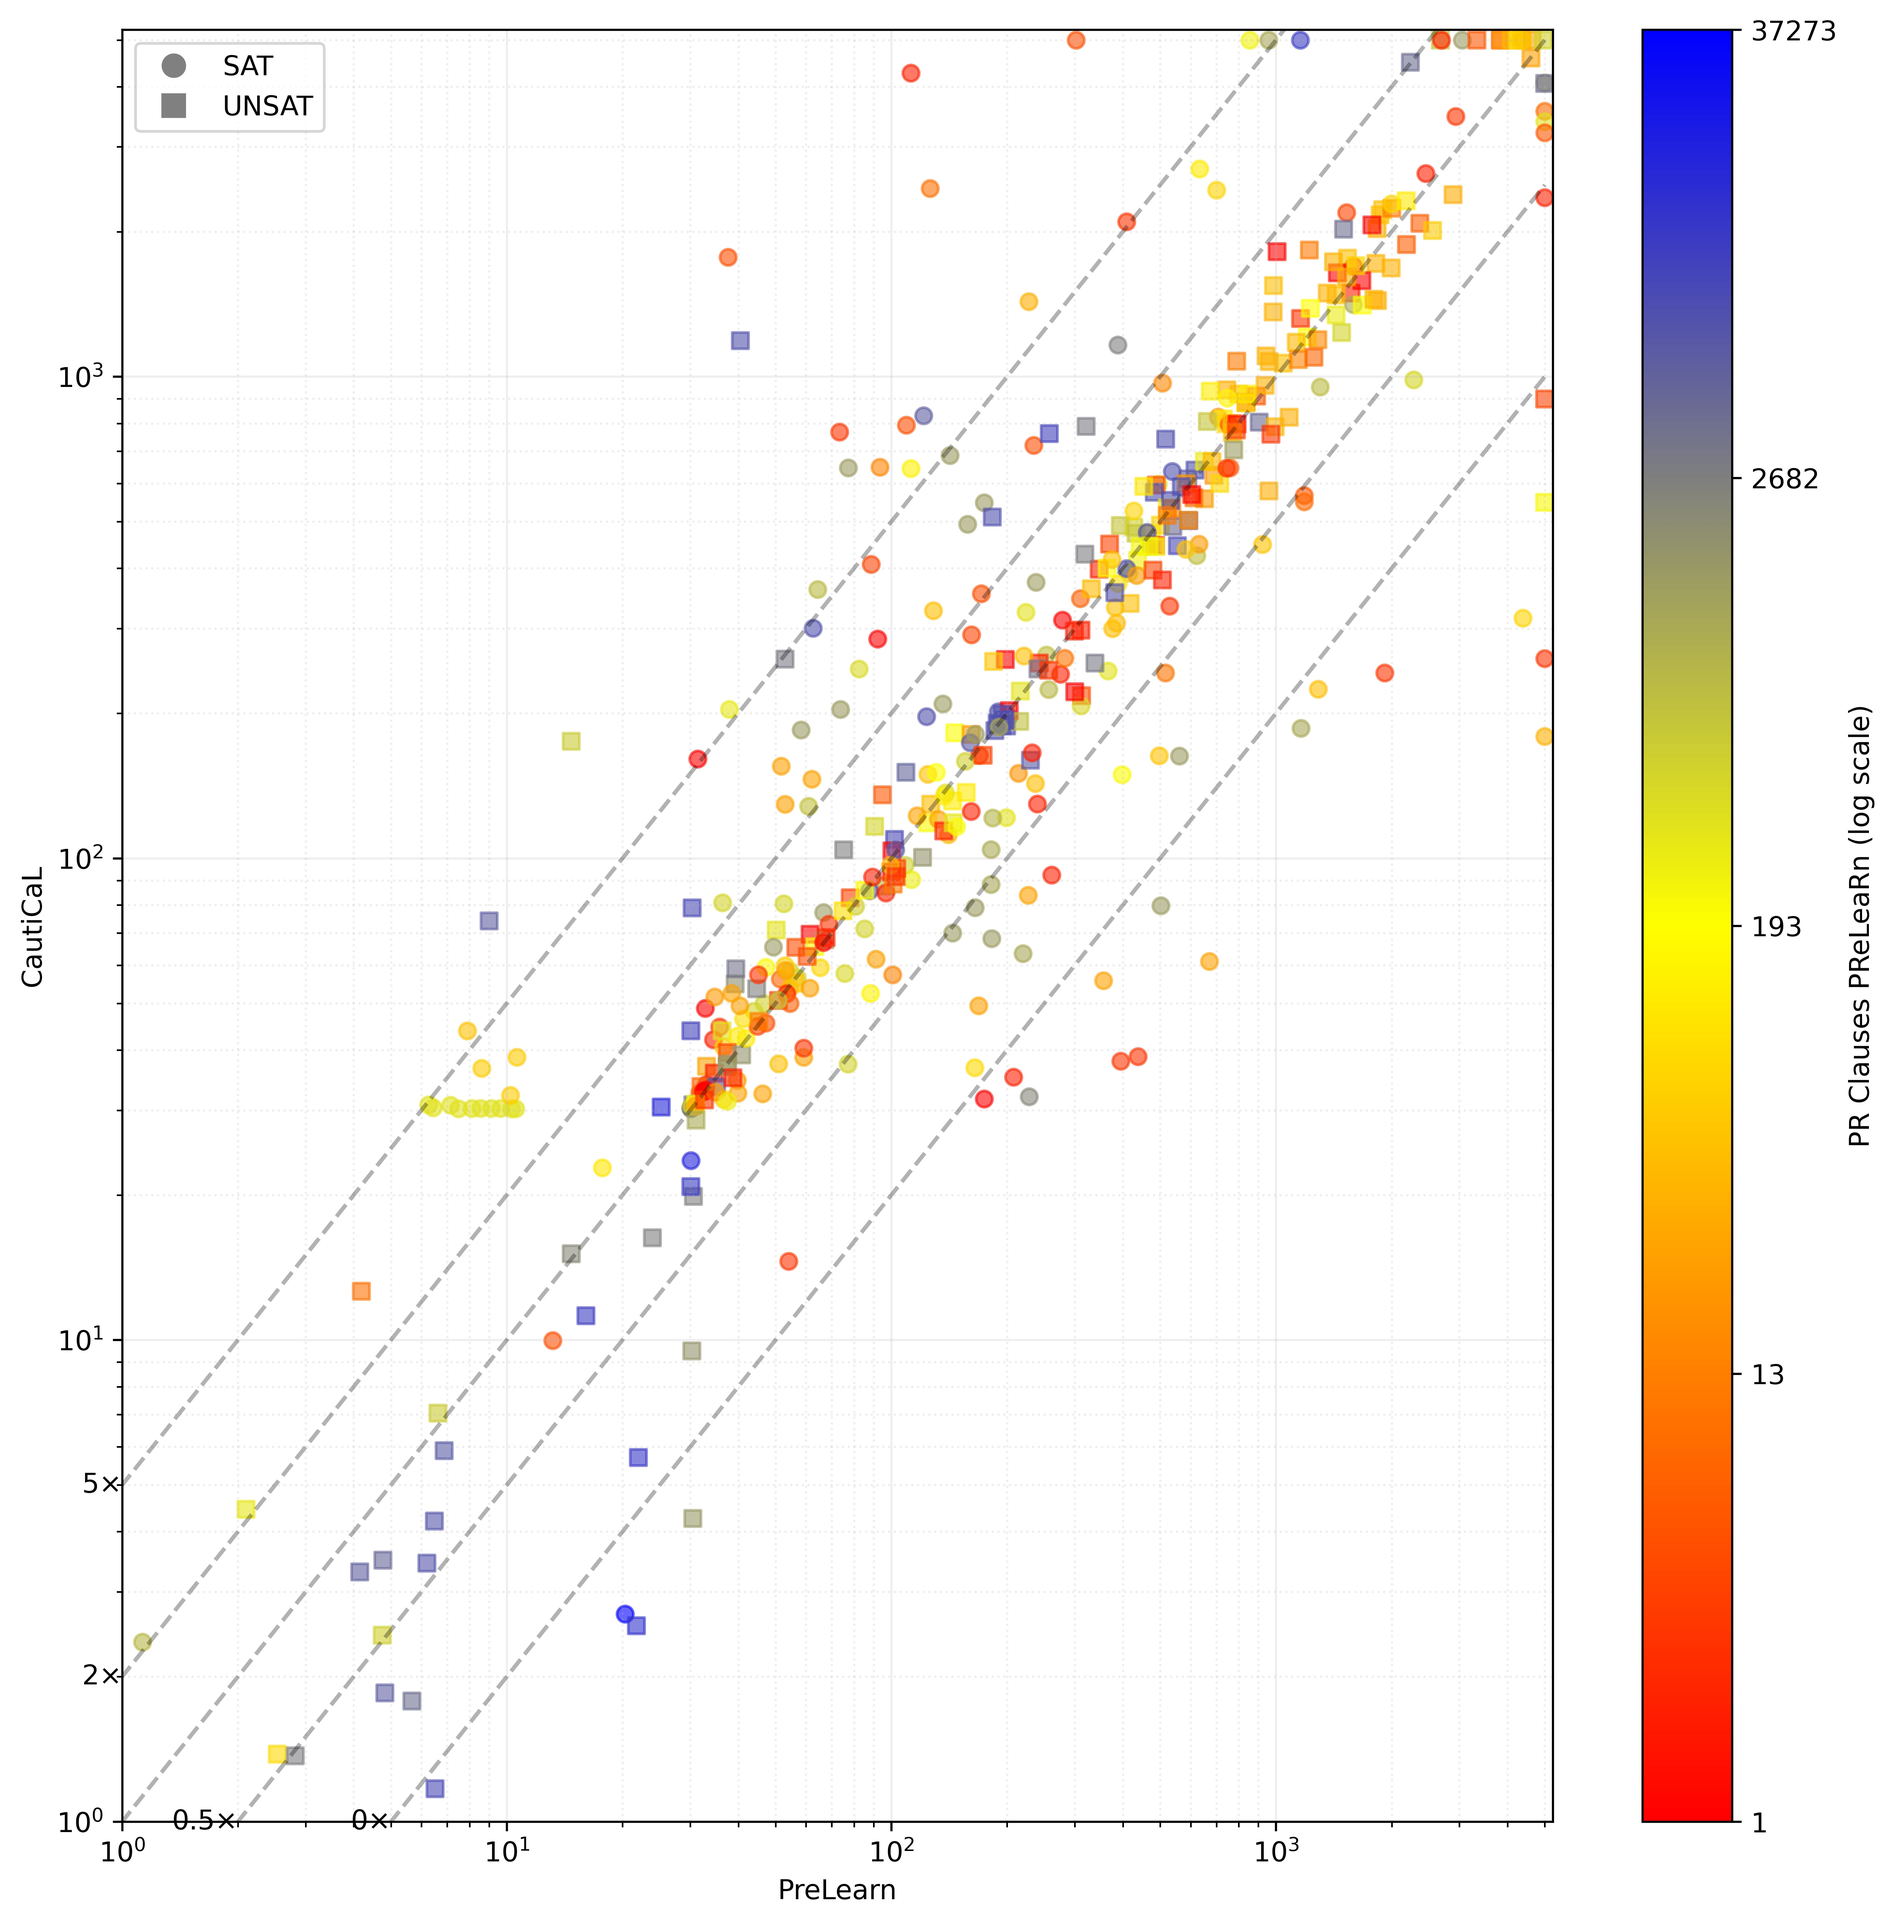
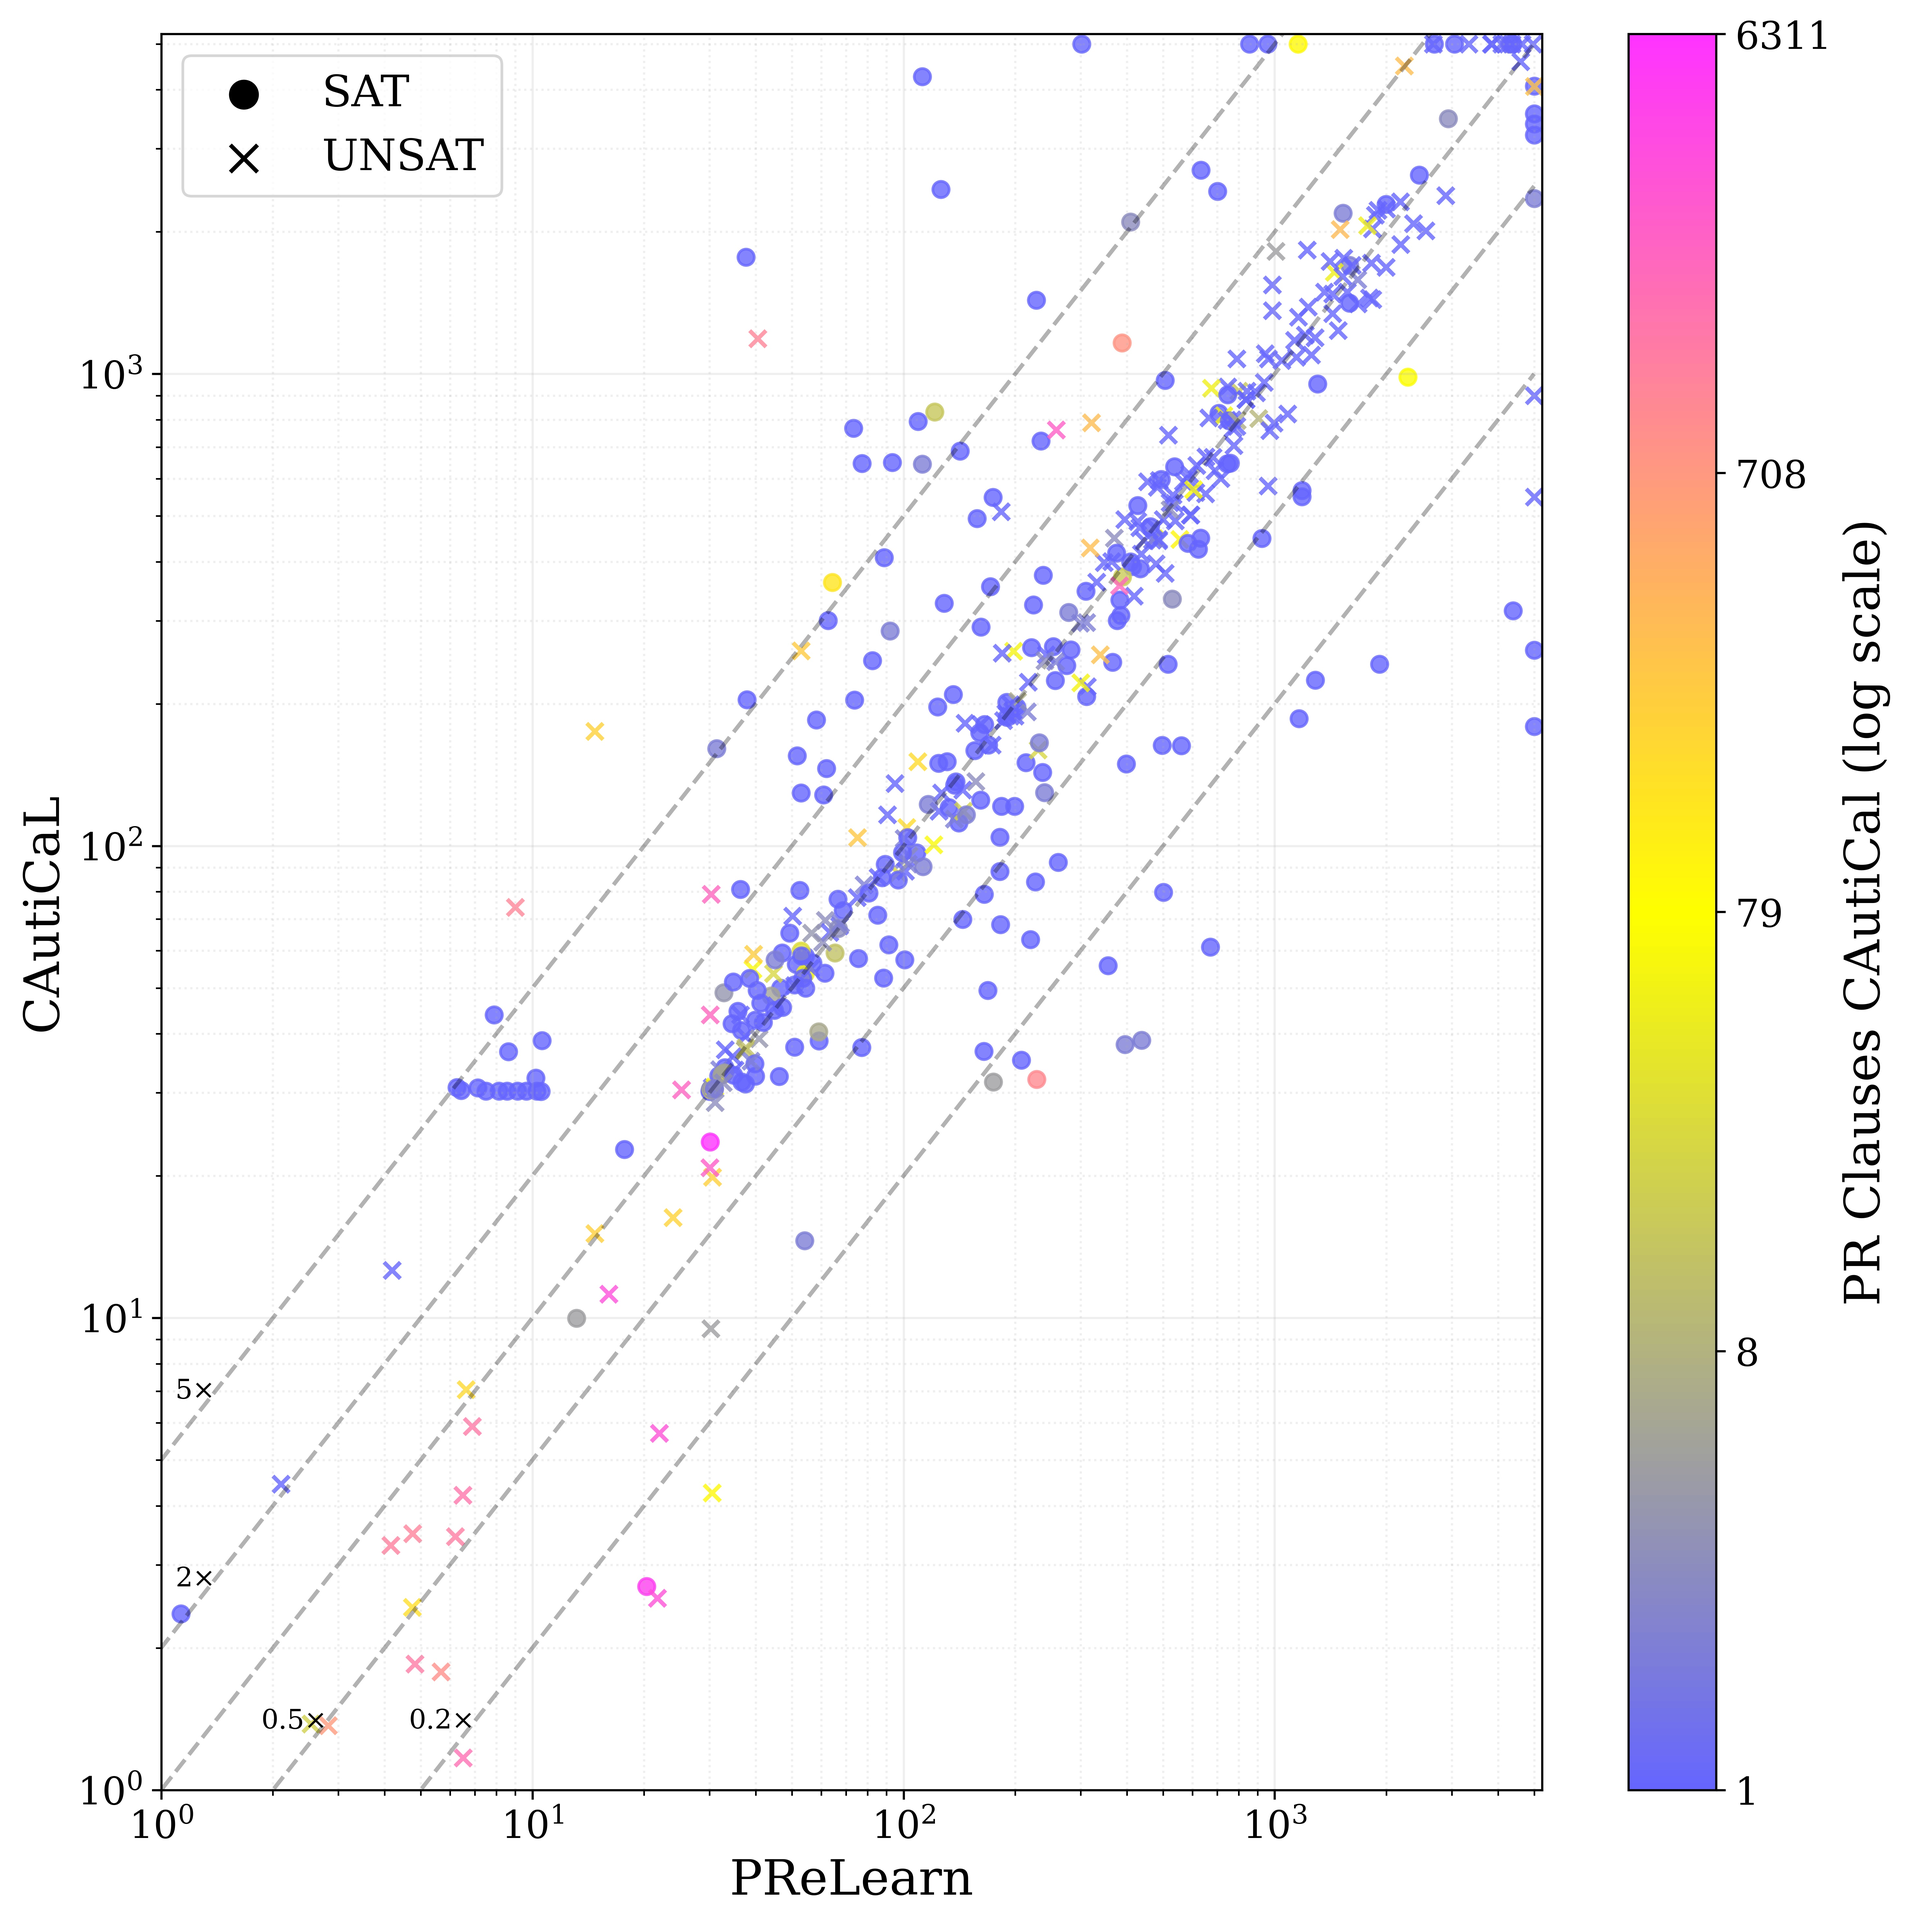
some more eval

diff --git a/texs/5.evaluation.tex b/texs/5.evaluation.tex
@@ -91,21 +91,21 @@ On the other hand, \tool almost matches its non-scranfilized performance, demons
     \begin{subfigure}[t]{0.45\textwidth}
         \centering
         \includegraphics[width=\textwidth]{figs/cadical_vs_cautical_nontrivial.jpg}
-        \caption{Comparison with \cadical}
+        \caption{Comparing \tool to \cadical. The color indicates the number of \pr clauses learnt by \tool}
         \label{fig:cautical-vs-cadical}
     \end{subfigure}
     % \hspace{0.06\textwidth}
     \begin{subfigure}[t]{0.45\textwidth}
         \centering
         \includegraphics[width=\textwidth]{figs/cadical_vs_prelearn_nontrivial.jpg}
-        \caption{Comparison with \prelearn}
+        \caption{Comparing \prelearn to \cadical. The color indicates the number of \pr clauses learnt by \prelearn}
         \label{fig:cautical-vs-prelearn}
     \end{subfigure}
-    \caption{Performance comparison of \tool with other solvers}
+    \caption{Performance comparison of \tool with and \prelearn with \cadical on SAT competition benchmarks. We filter out all benchmarks where the solvers do not learn any \pr clauses. The color indicates the number of \pr clauses learnt by the solver.}
     \label{fig:solver-comparison}
 \end{figure*}
 
-In \autoref{fig:solver-comparison}, we compare the performance of \tool with \cadical and \prelearn on the benchmarks from the '22,'23, and '24 SAT competition's main tracks~\cite{satcomp2022,satcomp2023,satcomp2024}. We exclude all benchmarks with more than 20M variables. \autoref{tab:solver-stats} shows the number of instances solved by each solver as well as the number of queries for which \prelearn and \cadical learn additional clauses, improve upon \cadical, and solve that \cadical does not solve.
+In \autoref{fig:solver-comparison}, we compare the performance of \tool with \cadical and \prelearn on the benchmarks from the '22,'23, and '24 SAT competition's main tracks~\cite{satcomp2022,satcomp2023,satcomp2024}. We exclude all benchmarks with more than 20M variables. \autoref{tab:solver-stats} shows the number of instances solved by each solver and the number of queries for which \prelearn and \cadical learn additional clauses, improve upon \cadical, and solve that \cadical does not solve.
 
 PAR-2 score is a standard metric used to evaluate the performance of solvers.
 It is evaluated as the sum of the runtimes of solved instances and twice the timeout of unsolved instances. On this dataset, \cadical has a PAR-score of 3521.79 seconds, \prelearn has a PAR-score of 3331.41 seconds, and \tool has a PAR-score of 3442.14 seconds.
@@ -129,14 +129,14 @@ It is evaluated as the sum of the runtimes of solved instances and twice the tim
       \prelearn \\
       \; Total &  52 &  90 & 322 & 307 \\
       \; Learnt clauses   &  43 &  74 & 187 & 149 \\
-      \; Learnt many clauses   &  24 &  52 & 108 & 81 \\
+      \; Learnt $>50$ clauses   &  24 &  52 & 108 & 81 \\
       \; Improved &  10 &  25 &  51 &  30 \\
       \; Exclusively &   1 &  17 &   6 &   6 \\
       \midrule
       \tool \\
       \; Total &  52 &  87 & 317 & 298 \\
       \; Learnt clauses     &  16 &  59  &  32 &  36 \\
-      \; Learnt many clauses  &  16 &  58 &  32 &  35 \\
+      \; Learnt $>50$ clauses  &  16 &  58 &  32 &  35 \\
       \; Improved &  23 &  30 &  80 &  49 \\
       \; Exclusively &   0 &  18 &   9 &   9 \\
       \bottomrule
@@ -162,40 +162,41 @@ It is evaluated as the sum of the runtimes of solved instances and twice the tim
 
 \subsection{\toolminus}
 
+Motivated by the fact that \tool improves mostly on formulas where it learns many clauses, we define a new variant \toolminus. After running the 30 second preprocessing step, if \toolminus does not learn at least $50$ \pr clauses, it will completely reset the context and run cadical. In \autoref{fig:toolminus-comparison}, we compare \tool to \prelearn and \toolminus to \prelearn on the SAT competition benchmarks.
+
 
 \begin{figure*}[!t]
     \centering
     \begin{subfigure}[t]{0.45\textwidth}
         \centering
-        \includegraphics[width=\textwidth]{figs/cadical_vs_cautical_nontrivial.jpg}
-        \caption{Comparing \tool to \cadical. The color indicates the number of \pr clauses learnt by \tool}
+        \includegraphics[width=\textwidth]{figs/prelearn_vs_cautical.jpg}
+        \caption{Comparing \tool to \prelearn. The color indicates the number of \pr clauses learnt by \tool}
         \label{fig:cautical-vs-cadical}
     \end{subfigure}
     % \hspace{0.06\textwidth}
     \begin{subfigure}[t]{0.45\textwidth}
         \centering
-        \includegraphics[width=\textwidth]{figs/cadical_vs_prelearn_nontrivial.jpg}
-        \caption{Comparing \prelearn to \cadical. The color indicates the number of \pr clauses learnt by \prelearn}
+        \includegraphics[width=\textwidth]{figs/prelearn_vs_cautical_minus_time.jpg}
+        \caption{Comparing \toolminus to \prelearn. The color indicates the number of \pr clauses learnt by \toolminus}
         \label{fig:cautical-vs-prelearn}
     \end{subfigure}
-    \caption{Performance comparison of \tool with and \prelearn with \cadical on SAT competition benchmarks. We filter out all benchmarks where the solvers do not learn any \pr clauses. The color indicates the number of \pr clauses learnt by the solver.}
-    \label{fig:solver-comparison}
+    \caption{Performance comparison of \tool with and \toolminus with \prelearn on SAT competition benchmarks. We filter out all benchmarks where both \tool and \prelearn do not learn any \pr clauses. The color indicates the number of \pr clauses learnt by the \tool or \toolminus.}
+    % \label{fig:solver-comparison}
 \end{figure*}
 
 
 \subsection{Discussion of Benchmark Families}~\label{subsec:eval-discussion}
 
-We identify six benchmark families, which \pr clauses performe well on. We choose them  based on prior work ~\cite{prelearn} and our experiments on SAT competition benchmarks:
+We identify six benchmark families, which \pr clauses perform well on. We choose them  based on prior work ~\cite{prelearn} and our experiments on SAT competition benchmarks:
 
 \begin{enumerate}
     \item \texttt{mutilated-chessboard}
-    \item 
-    \item 
-    \item 
-    \item 
-    \item 
-    \item 
-    \item 
+    \item \texttt{pcmax-scheduling}
+    \item \texttt{perfect-matching}
+    \item \texttt{register-allocation}
+    \item \texttt{relativized\_pigeonhole}
+    \item \texttt{satcoin}
+    \item \texttt{test\_configuration}
 \end{enumerate}
 
 \begin{figure*}[!t]
@@ -222,7 +223,7 @@ We identify six benchmark families, which \pr clauses performe well on. We choos
     \end{subfigure}
 
     \caption{Performance comparison of \tool with other solvers}
-    \label{fig:solver-comparison}
+    % \label{fig:solver-comparison}
 \end{figure*}
 
 
@@ -258,7 +259,7 @@ We provide a brief analysis of the heuristics used in \tool.
     \end{subfigure}
 
     \caption{Performance comparison of \tool with other solvers}
-    \label{fig:solver-comparison}
+    % \label{fig:solver-comparison}
 \end{figure*}
 
 \begin{figure*}[!t]
@@ -285,7 +286,7 @@ We provide a brief analysis of the heuristics used in \tool.
     \end{subfigure}
 
     \caption{Performance comparison of \tool with other solvers}
-    \label{fig:solver-comparison}
+    % \label{fig:solver-comparison}
 \end{figure*}
 
 \begin{figure*}[!t]
@@ -312,7 +313,7 @@ We provide a brief analysis of the heuristics used in \tool.
     \end{subfigure}
 
     \caption{Performance comparison of \tool with other solvers}
-    \label{fig:solver-comparison}
+    % \label{fig:solver-comparison}
 \end{figure*}
 
 
